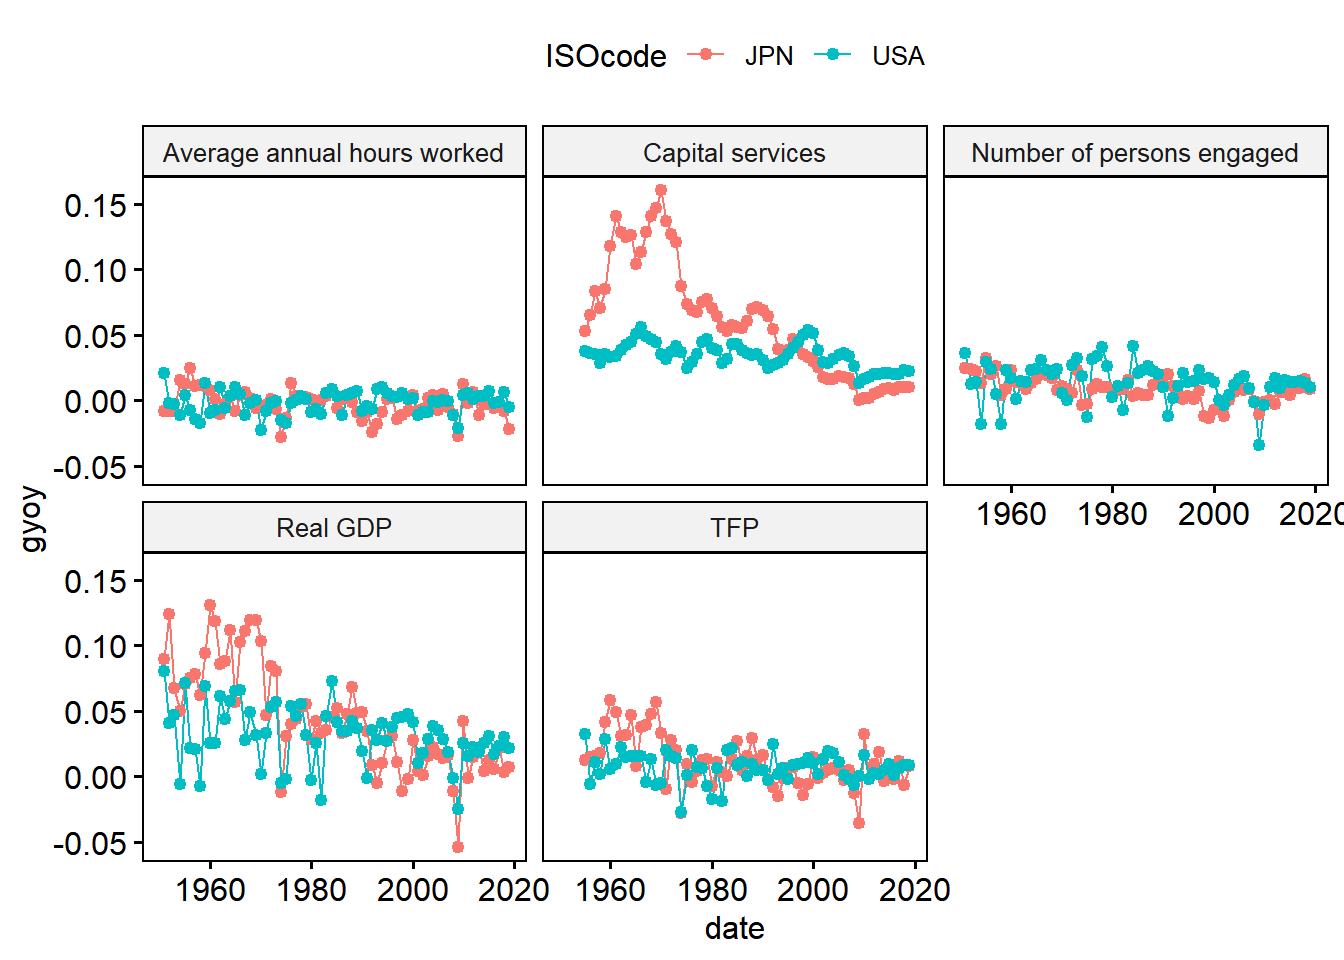
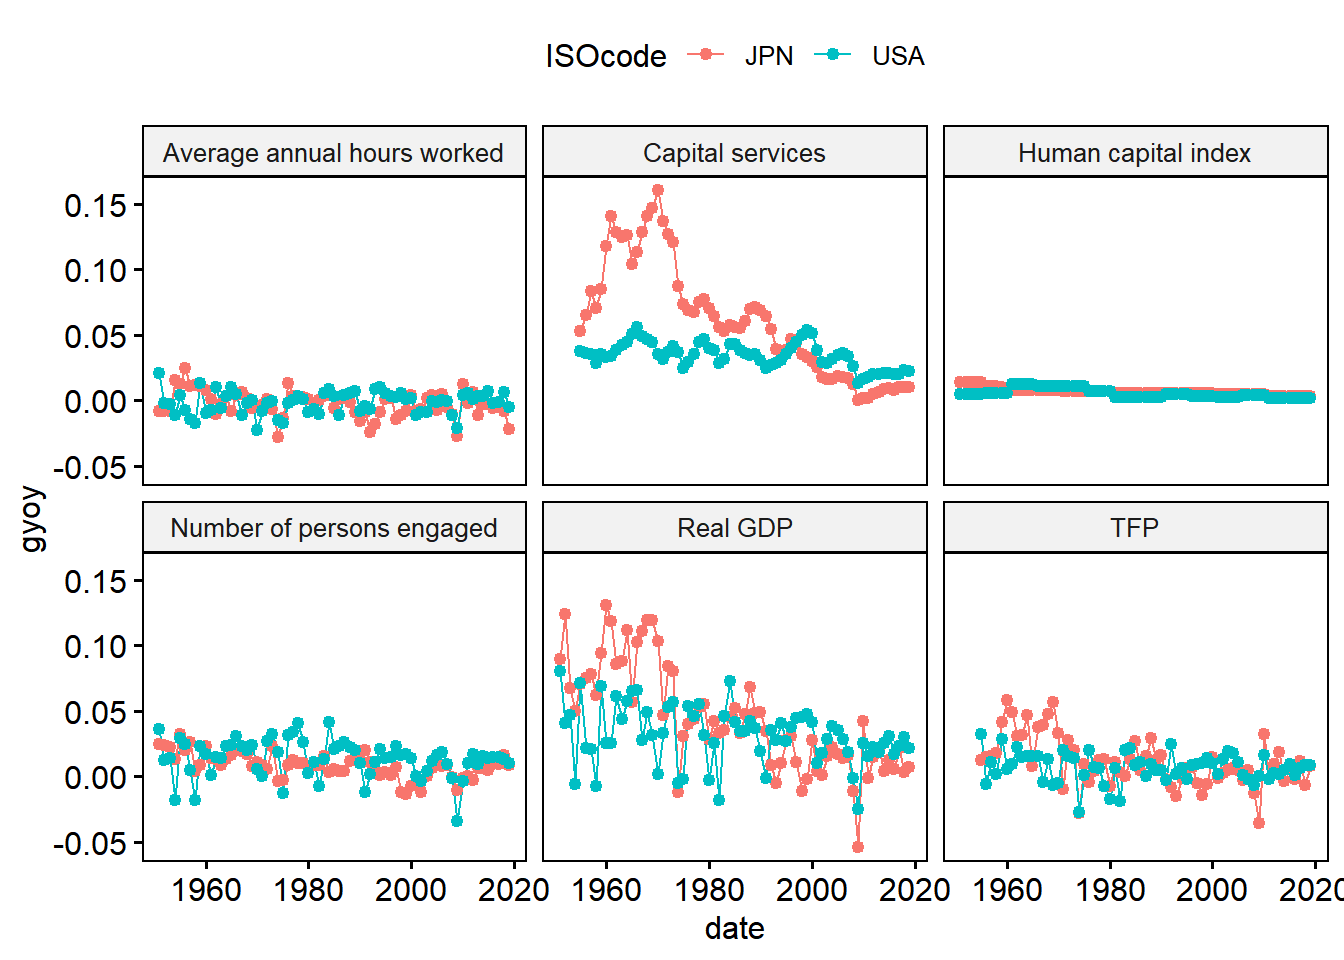
update data file

diff --git a/docs/scripts/data-pwt.html b/docs/scripts/data-pwt.html
@@ -133,6 +133,21 @@ pre > code.sourceCode > span > a:first-child::before { text-decoration: underlin
     <a class="nav-link" href="../lessons/index.html"> 
 <span class="menu-text">Lessons</span></a>
   </li>  
+  <li class="nav-item dropdown ">
+    <a class="nav-link dropdown-toggle" href="#" id="nav-menu-slides" role="link" data-bs-toggle="dropdown" aria-expanded="false">
+ <span class="menu-text">Slides</span>
+    </a>
+    <ul class="dropdown-menu" aria-labelledby="nav-menu-slides">    
+        <li>
+    <a class="dropdown-item" href="../slides/01_intro.html">
+ <span class="dropdown-text">Lecture 1</span></a>
+  </li>  
+        <li>
+    <a class="dropdown-item" href="../slides/02_ca.html">
+ <span class="dropdown-text">Lecture 2</span></a>
+  </li>  
+    </ul>
+  </li>
   <li class="nav-item">
     <a class="nav-link" href="../scripts/index.html"> 
 <span class="menu-text">Data</span></a>
@@ -365,18 +380,11 @@ pre > code.sourceCode > span > a:first-child::before { text-decoration: underlin
 <h2 class="anchored" data-anchor-id="plot-growth-rates-japan-vs-us">Plot growth rates (Japan vs US)</h2>
 <div class="cell">
 <div class="code-copy-outer-scaffold"><div class="sourceCode cell-code" id="cb8"><pre class="sourceCode r code-with-copy"><code class="sourceCode r"><span id="cb8-1"><a href="#cb8-1" aria-hidden="true" tabindex="-1"></a>ggpubr<span class="sc">::</span><span class="fu">ggline</span>(pwtdl[ISOcode <span class="sc">%in%</span> <span class="fu">c</span>(<span class="st">"JPN"</span>, <span class="st">"USA"</span>)</span>
-<span id="cb8-2"><a href="#cb8-2" aria-hidden="true" tabindex="-1"></a>                      <span class="sc">&amp;</span> <span class="sc">!</span><span class="fu">grepl</span>(<span class="st">"Share|index"</span>, Variablename)],</span>
-<span id="cb8-3"><a href="#cb8-3" aria-hidden="true" tabindex="-1"></a>               <span class="at">x =</span> <span class="st">"date"</span>, <span class="at">y =</span> <span class="st">"gyoy"</span>, <span class="at">color =</span> <span class="st">"ISOcode"</span>,</span>
-<span id="cb8-4"><a href="#cb8-4" aria-hidden="true" tabindex="-1"></a>               <span class="at">facet.by =</span> <span class="st">"Variablename2"</span>,</span>
-<span id="cb8-5"><a href="#cb8-5" aria-hidden="true" tabindex="-1"></a>               <span class="at">numeric.x.axis =</span> T)</span></code></pre></div><button title="Copy to Clipboard" class="code-copy-button"><i class="bi"></i></button></div>
-<div class="cell-output cell-output-stderr">
-<pre><code>Warning: Removed 26 rows containing missing values or values outside the scale range
-(`geom_line()`).</code></pre>
-</div>
-<div class="cell-output cell-output-stderr">
-<pre><code>Warning: Removed 26 rows containing missing values or values outside the scale range
-(`geom_point()`).</code></pre>
-</div>
+<span id="cb8-2"><a href="#cb8-2" aria-hidden="true" tabindex="-1"></a>                      <span class="sc">&amp;</span> <span class="sc">!</span><span class="fu">grepl</span>(<span class="st">"Share"</span>, Variablename)</span>
+<span id="cb8-3"><a href="#cb8-3" aria-hidden="true" tabindex="-1"></a>                     <span class="sc">&amp;!</span><span class="fu">is.na</span>(gyoy)],</span>
+<span id="cb8-4"><a href="#cb8-4" aria-hidden="true" tabindex="-1"></a>               <span class="at">x =</span> <span class="st">"date"</span>, <span class="at">y =</span> <span class="st">"gyoy"</span>, <span class="at">color =</span> <span class="st">"ISOcode"</span>,</span>
+<span id="cb8-5"><a href="#cb8-5" aria-hidden="true" tabindex="-1"></a>               <span class="at">facet.by =</span> <span class="st">"Variablename2"</span>,</span>
+<span id="cb8-6"><a href="#cb8-6" aria-hidden="true" tabindex="-1"></a>               <span class="at">numeric.x.axis =</span> T)</span></code></pre></div><button title="Copy to Clipboard" class="code-copy-button"><i class="bi"></i></button></div>
 <div class="cell-output-display">
 <div>
 <figure class="figure">
@@ -389,11 +397,11 @@ pre > code.sourceCode > span > a:first-child::before { text-decoration: underlin
 <section id="plot-index-variables" class="level2">
 <h2 class="anchored" data-anchor-id="plot-index-variables">Plot index variables</h2>
 <div class="cell">
-<div class="code-copy-outer-scaffold"><div class="sourceCode cell-code" id="cb11"><pre class="sourceCode r code-with-copy"><code class="sourceCode r"><span id="cb11-1"><a href="#cb11-1" aria-hidden="true" tabindex="-1"></a>ggpubr<span class="sc">::</span><span class="fu">ggline</span>(pwtdl[ISOcode <span class="sc">%in%</span> <span class="fu">c</span>(<span class="st">"JPN"</span>, <span class="st">"USA"</span>)</span>
-<span id="cb11-2"><a href="#cb11-2" aria-hidden="true" tabindex="-1"></a>                      <span class="sc">&amp;</span> <span class="fu">grepl</span>(<span class="st">"index"</span>, Variablename)],</span>
-<span id="cb11-3"><a href="#cb11-3" aria-hidden="true" tabindex="-1"></a>               <span class="at">x =</span> <span class="st">"date"</span>, <span class="at">y =</span> <span class="st">"value"</span>, <span class="at">color =</span> <span class="st">"ISOcode"</span>,</span>
-<span id="cb11-4"><a href="#cb11-4" aria-hidden="true" tabindex="-1"></a>               <span class="at">facet.by =</span> <span class="st">"Variablename2"</span>,</span>
-<span id="cb11-5"><a href="#cb11-5" aria-hidden="true" tabindex="-1"></a>               <span class="at">numeric.x.axis =</span> T)</span></code></pre></div><button title="Copy to Clipboard" class="code-copy-button"><i class="bi"></i></button></div>
+<div class="code-copy-outer-scaffold"><div class="sourceCode cell-code" id="cb9"><pre class="sourceCode r code-with-copy"><code class="sourceCode r"><span id="cb9-1"><a href="#cb9-1" aria-hidden="true" tabindex="-1"></a>ggpubr<span class="sc">::</span><span class="fu">ggline</span>(pwtdl[ISOcode <span class="sc">%in%</span> <span class="fu">c</span>(<span class="st">"JPN"</span>, <span class="st">"USA"</span>)</span>
+<span id="cb9-2"><a href="#cb9-2" aria-hidden="true" tabindex="-1"></a>                      <span class="sc">&amp;</span> <span class="fu">grepl</span>(<span class="st">"index"</span>, Variablename)],</span>
+<span id="cb9-3"><a href="#cb9-3" aria-hidden="true" tabindex="-1"></a>               <span class="at">x =</span> <span class="st">"date"</span>, <span class="at">y =</span> <span class="st">"value"</span>, <span class="at">color =</span> <span class="st">"ISOcode"</span>,</span>
+<span id="cb9-4"><a href="#cb9-4" aria-hidden="true" tabindex="-1"></a>               <span class="at">facet.by =</span> <span class="st">"Variablename2"</span>,</span>
+<span id="cb9-5"><a href="#cb9-5" aria-hidden="true" tabindex="-1"></a>               <span class="at">numeric.x.axis =</span> T)</span></code></pre></div><button title="Copy to Clipboard" class="code-copy-button"><i class="bi"></i></button></div>
 <div class="cell-output-display">
 <div>
 <figure class="figure">
@@ -406,11 +414,11 @@ pre > code.sourceCode > span > a:first-child::before { text-decoration: underlin
 <section id="plot-share-variables" class="level2">
 <h2 class="anchored" data-anchor-id="plot-share-variables">Plot share variables</h2>
 <div class="cell">
-<div class="code-copy-outer-scaffold"><div class="sourceCode cell-code" id="cb12"><pre class="sourceCode r code-with-copy"><code class="sourceCode r"><span id="cb12-1"><a href="#cb12-1" aria-hidden="true" tabindex="-1"></a>ggpubr<span class="sc">::</span><span class="fu">ggline</span>(pwtdl[ISOcode <span class="sc">%in%</span> <span class="fu">c</span>(<span class="st">"JPN"</span>, <span class="st">"USA"</span>)</span>
-<span id="cb12-2"><a href="#cb12-2" aria-hidden="true" tabindex="-1"></a>                      <span class="sc">&amp;</span> <span class="fu">grepl</span>(<span class="st">"Share"</span>, Variablename)],</span>
-<span id="cb12-3"><a href="#cb12-3" aria-hidden="true" tabindex="-1"></a>               <span class="at">x =</span> <span class="st">"date"</span>, <span class="at">y =</span> <span class="st">"value"</span>, <span class="at">color =</span> <span class="st">"ISOcode"</span>,</span>
-<span id="cb12-4"><a href="#cb12-4" aria-hidden="true" tabindex="-1"></a>               <span class="at">facet.by =</span> <span class="st">"Variablename2"</span>,</span>
-<span id="cb12-5"><a href="#cb12-5" aria-hidden="true" tabindex="-1"></a>               <span class="at">numeric.x.axis =</span> T)</span></code></pre></div><button title="Copy to Clipboard" class="code-copy-button"><i class="bi"></i></button></div>
+<div class="code-copy-outer-scaffold"><div class="sourceCode cell-code" id="cb10"><pre class="sourceCode r code-with-copy"><code class="sourceCode r"><span id="cb10-1"><a href="#cb10-1" aria-hidden="true" tabindex="-1"></a>ggpubr<span class="sc">::</span><span class="fu">ggline</span>(pwtdl[ISOcode <span class="sc">%in%</span> <span class="fu">c</span>(<span class="st">"JPN"</span>, <span class="st">"USA"</span>)</span>
+<span id="cb10-2"><a href="#cb10-2" aria-hidden="true" tabindex="-1"></a>                      <span class="sc">&amp;</span> <span class="fu">grepl</span>(<span class="st">"Share"</span>, Variablename)],</span>
+<span id="cb10-3"><a href="#cb10-3" aria-hidden="true" tabindex="-1"></a>               <span class="at">x =</span> <span class="st">"date"</span>, <span class="at">y =</span> <span class="st">"value"</span>, <span class="at">color =</span> <span class="st">"ISOcode"</span>,</span>
+<span id="cb10-4"><a href="#cb10-4" aria-hidden="true" tabindex="-1"></a>               <span class="at">facet.by =</span> <span class="st">"Variablename2"</span>,</span>
+<span id="cb10-5"><a href="#cb10-5" aria-hidden="true" tabindex="-1"></a>               <span class="at">numeric.x.axis =</span> T)</span></code></pre></div><button title="Copy to Clipboard" class="code-copy-button"><i class="bi"></i></button></div>
 <div class="cell-output-display">
 <div>
 <figure class="figure">
@@ -423,11 +431,11 @@ pre > code.sourceCode > span > a:first-child::before { text-decoration: underlin
 <section id="save-processed-data" class="level2">
 <h2 class="anchored" data-anchor-id="save-processed-data">Save processed data</h2>
 <div class="cell">
-<div class="code-copy-outer-scaffold"><div class="sourceCode cell-code" id="cb13"><pre class="sourceCode r code-with-copy"><code class="sourceCode r"><span id="cb13-1"><a href="#cb13-1" aria-hidden="true" tabindex="-1"></a><span class="fu">fwrite</span>(pwtdl[, .(Variablecode,</span>
-<span id="cb13-2"><a href="#cb13-2" aria-hidden="true" tabindex="-1"></a>                  Variablename2,</span>
-<span id="cb13-3"><a href="#cb13-3" aria-hidden="true" tabindex="-1"></a>                  ISOcode, date,</span>
-<span id="cb13-4"><a href="#cb13-4" aria-hidden="true" tabindex="-1"></a>                  value, gyoy)],</span>
-<span id="cb13-5"><a href="#cb13-5" aria-hidden="true" tabindex="-1"></a>       <span class="st">"../data/temp/pwt.csv"</span>)</span></code></pre></div><button title="Copy to Clipboard" class="code-copy-button"><i class="bi"></i></button></div>
+<div class="code-copy-outer-scaffold"><div class="sourceCode cell-code" id="cb11"><pre class="sourceCode r code-with-copy"><code class="sourceCode r"><span id="cb11-1"><a href="#cb11-1" aria-hidden="true" tabindex="-1"></a><span class="fu">fwrite</span>(pwtdl[, .(Variablecode,</span>
+<span id="cb11-2"><a href="#cb11-2" aria-hidden="true" tabindex="-1"></a>                  Variablename2,</span>
+<span id="cb11-3"><a href="#cb11-3" aria-hidden="true" tabindex="-1"></a>                  ISOcode, date,</span>
+<span id="cb11-4"><a href="#cb11-4" aria-hidden="true" tabindex="-1"></a>                  value, gyoy)],</span>
+<span id="cb11-5"><a href="#cb11-5" aria-hidden="true" tabindex="-1"></a>       <span class="st">"../data/temp/pwt.csv"</span>)</span></code></pre></div><button title="Copy to Clipboard" class="code-copy-button"><i class="bi"></i></button></div>
 </div>
 
 

diff --git a/docs/scripts/data-wits.html b/docs/scripts/data-wits.html
@@ -133,6 +133,21 @@ pre > code.sourceCode > span > a:first-child::before { text-decoration: underlin
     <a class="nav-link" href="../lessons/index.html"> 
 <span class="menu-text">Lessons</span></a>
   </li>  
+  <li class="nav-item dropdown ">
+    <a class="nav-link dropdown-toggle" href="#" id="nav-menu-slides" role="link" data-bs-toggle="dropdown" aria-expanded="false">
+ <span class="menu-text">Slides</span>
+    </a>
+    <ul class="dropdown-menu" aria-labelledby="nav-menu-slides">    
+        <li>
+    <a class="dropdown-item" href="../slides/01_intro.html">
+ <span class="dropdown-text">Lecture 1</span></a>
+  </li>  
+        <li>
+    <a class="dropdown-item" href="../slides/02_ca.html">
+ <span class="dropdown-text">Lecture 2</span></a>
+  </li>  
+    </ul>
+  </li>
   <li class="nav-item">
     <a class="nav-link" href="../scripts/index.html"> 
 <span class="menu-text">Data</span></a>
@@ -540,7 +555,7 @@ pre > code.sourceCode > span > a:first-child::before { text-decoration: underlin
 <div class="cell">
 <div class="code-copy-outer-scaffold"><div class="sourceCode cell-code" id="cb24"><pre class="sourceCode r code-with-copy"><code class="sourceCode r"><span id="cb24-1"><a href="#cb24-1" aria-hidden="true" tabindex="-1"></a>dtl <span class="ot">=</span> <span class="fu">melt</span>(</span>
 <span id="cb24-2"><a href="#cb24-2" aria-hidden="true" tabindex="-1"></a>  dt2[source <span class="sc">==</span> <span class="st">"wiodlr"</span> <span class="sc">|</span> (source <span class="sc">==</span> <span class="st">"tiva"</span> <span class="sc">&amp;</span> t <span class="sc">&gt;</span> <span class="dv">2000</span>),</span>
-<span id="cb24-3"><a href="#cb24-3" aria-hidden="true" tabindex="-1"></a>      .(imp, exp, imp_reg, exp_reg,</span>
+<span id="cb24-3"><a href="#cb24-3" aria-hidden="true" tabindex="-1"></a>      .(source,imp, exp, imp_reg, exp_reg,</span>
 <span id="cb24-4"><a href="#cb24-4" aria-hidden="true" tabindex="-1"></a>        sect_name, sect_group,</span>
 <span id="cb24-5"><a href="#cb24-5" aria-hidden="true" tabindex="-1"></a>        t, traditional_trade_int, traditional_trade_fin,</span>
 <span id="cb24-6"><a href="#cb24-6" aria-hidden="true" tabindex="-1"></a>        gvcbp, gvcfp, gvcmix)],</span>
@@ -548,29 +563,49 @@ pre > code.sourceCode > span > a:first-child::before { text-decoration: underlin
 <span id="cb24-8"><a href="#cb24-8" aria-hidden="true" tabindex="-1"></a>              <span class="st">"imp_reg"</span>, <span class="st">"exp_reg"</span>,</span>
 <span id="cb24-9"><a href="#cb24-9" aria-hidden="true" tabindex="-1"></a>              <span class="st">"sect_name"</span>, <span class="st">"sect_group"</span>, <span class="st">"t"</span>)</span>
 <span id="cb24-10"><a href="#cb24-10" aria-hidden="true" tabindex="-1"></a>)</span></code></pre></div><button title="Copy to Clipboard" class="code-copy-button"><i class="bi"></i></button></div>
+<div class="cell-output cell-output-stderr">
+<pre><code>Warning in melt.data.table(dt2[source == "wiodlr" | (source == "tiva" &amp; :
+'measure.vars' [source, traditional_trade_int, traditional_trade_fin, gvcbp,
+...] are not all of the same type. By order of hierarchy, the molten data value
+column will be of type 'character'. All measure variables not of type
+'character' will be coerced too. Check DETAILS in ?melt.data.table for more on
+coercion.</code></pre>
+</div>
 </div>
 <div class="cell">
-<div class="code-copy-outer-scaffold"><div class="sourceCode cell-code" id="cb25"><pre class="sourceCode r code-with-copy"><code class="sourceCode r"><span id="cb25-1"><a href="#cb25-1" aria-hidden="true" tabindex="-1"></a>dtl[, .N, by <span class="ot">=</span> variable]</span></code></pre></div><button title="Copy to Clipboard" class="code-copy-button"><i class="bi"></i></button></div>
+<div class="code-copy-outer-scaffold"><div class="sourceCode cell-code" id="cb26"><pre class="sourceCode r code-with-copy"><code class="sourceCode r"><span id="cb26-1"><a href="#cb26-1" aria-hidden="true" tabindex="-1"></a>dtl[, .N, by <span class="ot">=</span> variable]</span></code></pre></div><button title="Copy to Clipboard" class="code-copy-button"><i class="bi"></i></button></div>
 <div class="cell-output cell-output-stdout">
 <pre><code>                variable       N
                   &lt;fctr&gt;   &lt;int&gt;
-1: traditional_trade_int 5715900
-2: traditional_trade_fin 5715900
-3:                 gvcbp 5715900
-4:                 gvcfp 5715900
-5:                gvcmix 5715900</code></pre>
+1:                source 5715900
+2: traditional_trade_int 5715900
+3: traditional_trade_fin 5715900
+4:                 gvcbp 5715900
+5:                 gvcfp 5715900
+6:                gvcmix 5715900</code></pre>
 </div>
-<div class="code-copy-outer-scaffold"><div class="sourceCode cell-code" id="cb27"><pre class="sourceCode r code-with-copy"><code class="sourceCode r"><span id="cb27-1"><a href="#cb27-1" aria-hidden="true" tabindex="-1"></a><span class="fu">range</span>(dtl<span class="sc">$</span>t)</span></code></pre></div><button title="Copy to Clipboard" class="code-copy-button"><i class="bi"></i></button></div>
+<div class="code-copy-outer-scaffold"><div class="sourceCode cell-code" id="cb28"><pre class="sourceCode r code-with-copy"><code class="sourceCode r"><span id="cb28-1"><a href="#cb28-1" aria-hidden="true" tabindex="-1"></a><span class="fu">range</span>(dtl<span class="sc">$</span>t)</span></code></pre></div><button title="Copy to Clipboard" class="code-copy-button"><i class="bi"></i></button></div>
 <div class="cell-output cell-output-stdout">
 <pre><code>[1] 1965 2020</code></pre>
+</div>
+<div class="code-copy-outer-scaffold"><div class="sourceCode cell-code" id="cb30"><pre class="sourceCode r code-with-copy"><code class="sourceCode r"><span id="cb30-1"><a href="#cb30-1" aria-hidden="true" tabindex="-1"></a>dt[,.N,by<span class="ot">=</span>source]</span></code></pre></div><button title="Copy to Clipboard" class="code-copy-button"><i class="bi"></i></button></div>
+<div class="cell-output cell-output-stdout">
+<pre><code>   source        N
+   &lt;char&gt;    &lt;int&gt;
+1:   eora 24147396
+2: wiodlr   559728
+3:  wiodo  1000195
+4:  wiodn  1626240
+5:    adb  2361555
+6:   tiva  6936930</code></pre>
 </div>
 </div>
 </section>
 <section id="save-the-cleaned-dataset" class="level2">
 <h2 class="anchored" data-anchor-id="save-the-cleaned-dataset">Save the cleaned dataset</h2>
-<p>Persist the cleaned, merged, long-format table so downstream scripts don’t need to repeat the loading/merging steps above.</p>
+<p>Persist the cleaned, merged, long-format table so downstream scripts don’t need to repeat the loading/merging steps above. Use parquet file to reduce on file size.</p>
 <div class="cell">
-<div class="code-copy-outer-scaffold"><div class="sourceCode cell-code" id="cb29"><pre class="sourceCode r code-with-copy"><code class="sourceCode r"><span id="cb29-1"><a href="#cb29-1" aria-hidden="true" tabindex="-1"></a><span class="fu">fwrite</span>(dtl, <span class="st">"../data/temp/gvc_trade.csv"</span>)</span></code></pre></div><button title="Copy to Clipboard" class="code-copy-button"><i class="bi"></i></button></div>
+<div class="code-copy-outer-scaffold"><div class="sourceCode cell-code" id="cb32"><pre class="sourceCode r code-with-copy"><code class="sourceCode r"><span id="cb32-1"><a href="#cb32-1" aria-hidden="true" tabindex="-1"></a>arrow<span class="sc">::</span><span class="fu">write_parquet</span>(dtl, <span class="st">"../data/temp/gvc_trade.parquet"</span>)</span></code></pre></div><button title="Copy to Clipboard" class="code-copy-button"><i class="bi"></i></button></div>
 </div>
 </section>
 <section id="summary" class="level2">

diff --git a/docs/scripts/data-madison.html b/docs/scripts/data-madison.html
@@ -133,6 +133,21 @@ pre > code.sourceCode > span > a:first-child::before { text-decoration: underlin
     <a class="nav-link" href="../lessons/index.html"> 
 <span class="menu-text">Lessons</span></a>
   </li>  
+  <li class="nav-item dropdown ">
+    <a class="nav-link dropdown-toggle" href="#" id="nav-menu-slides" role="link" data-bs-toggle="dropdown" aria-expanded="false">
+ <span class="menu-text">Slides</span>
+    </a>
+    <ul class="dropdown-menu" aria-labelledby="nav-menu-slides">    
+        <li>
+    <a class="dropdown-item" href="../slides/01_intro.html">
+ <span class="dropdown-text">Lecture 1</span></a>
+  </li>  
+        <li>
+    <a class="dropdown-item" href="../slides/02_ca.html">
+ <span class="dropdown-text">Lecture 2</span></a>
+  </li>  
+    </ul>
+  </li>
   <li class="nav-item">
     <a class="nav-link" href="../scripts/index.html"> 
 <span class="menu-text">Data</span></a>
@@ -183,7 +198,7 @@ pre > code.sourceCode > span > a:first-child::before { text-decoration: underlin
 <header id="title-block-header" class="quarto-title-block default">
 <div class="quarto-title">
 <h1 class="title">Cleaning Raw Data: A Worked Example</h1>
-<p class="subtitle lead">Maddison Project Database (GDP per capita, 1-2022)</p>
+<p class="subtitle lead">Maddison Project Database (GDP per capita, 1900-2022)</p>
 </div>
 
 
